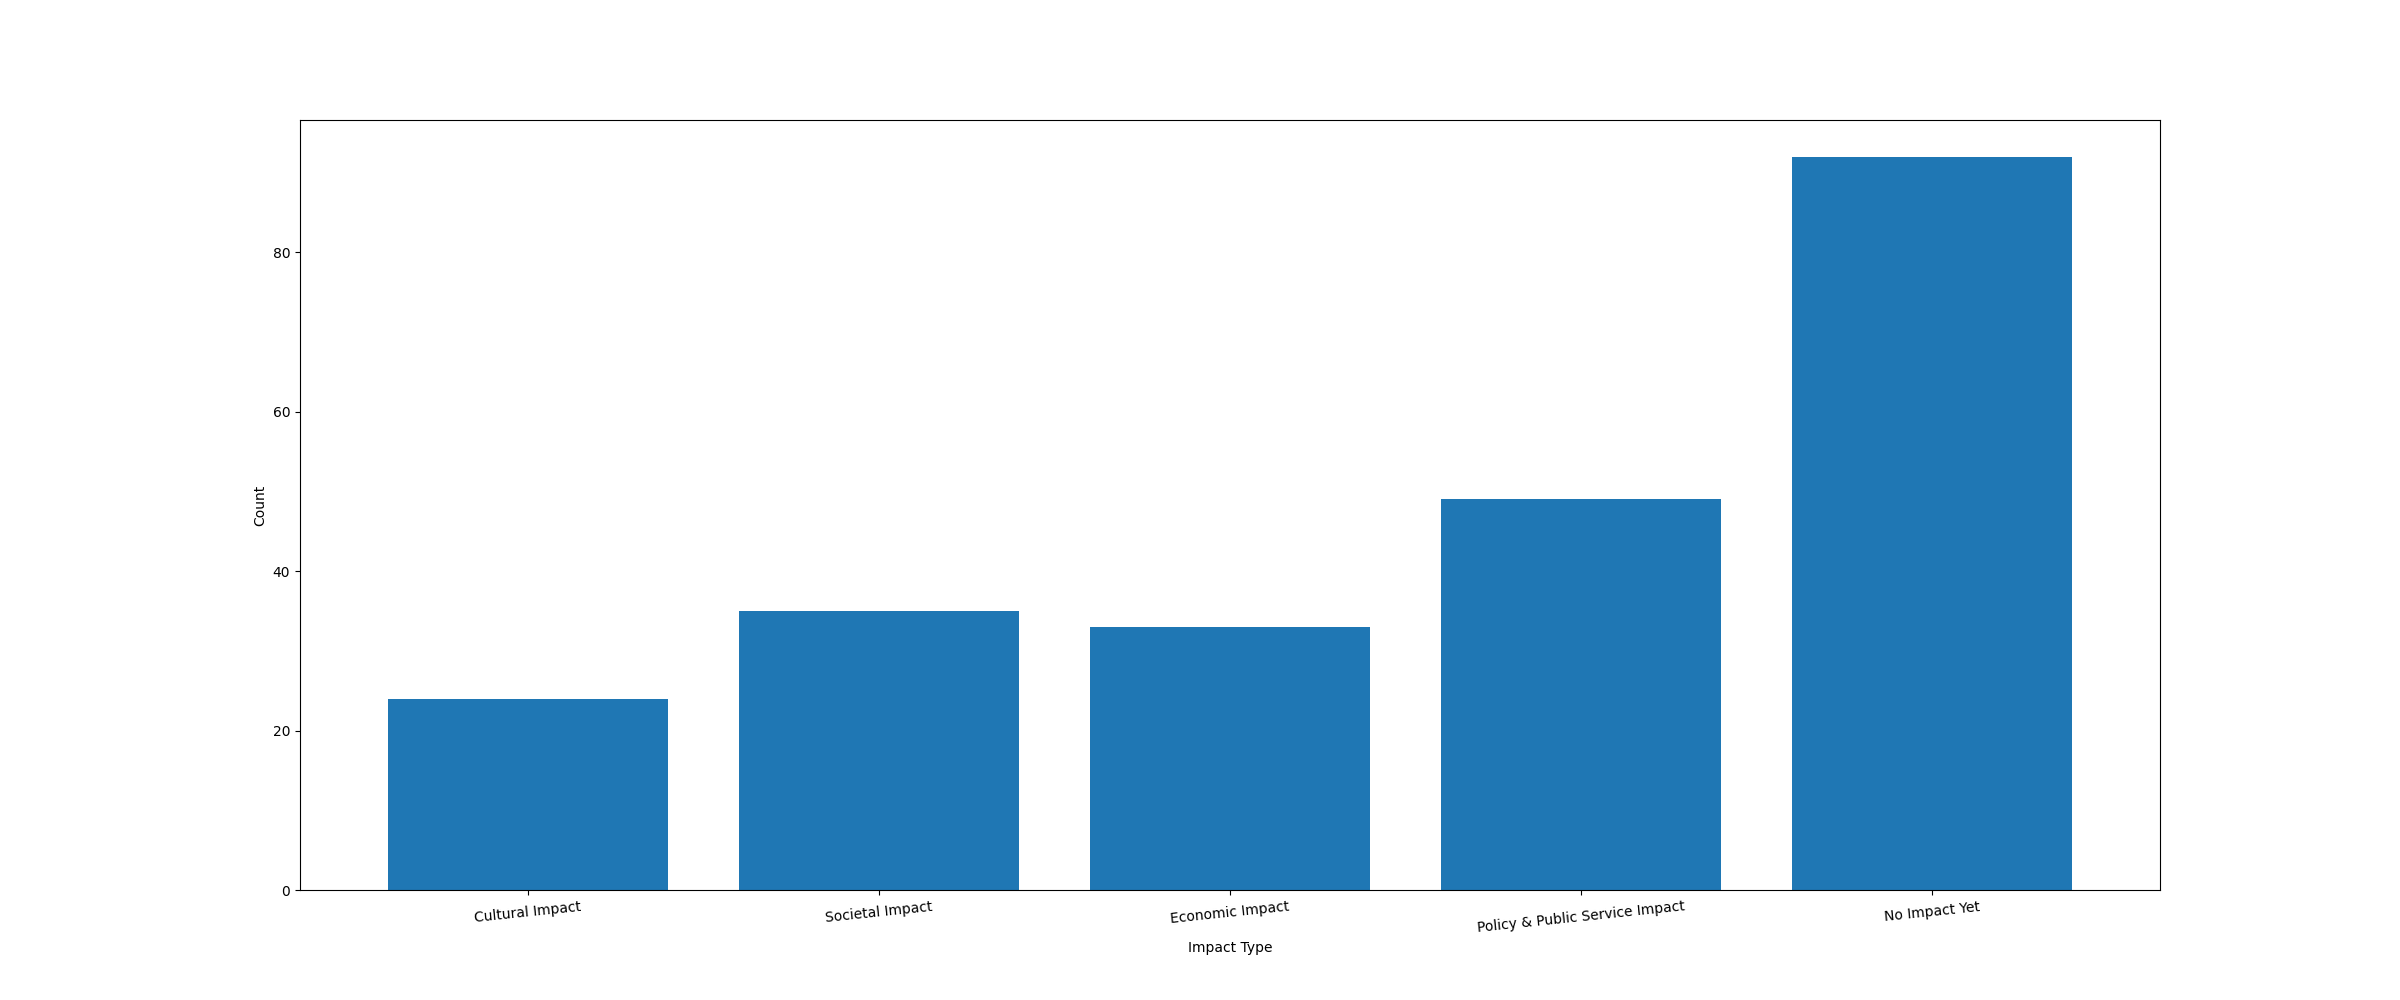
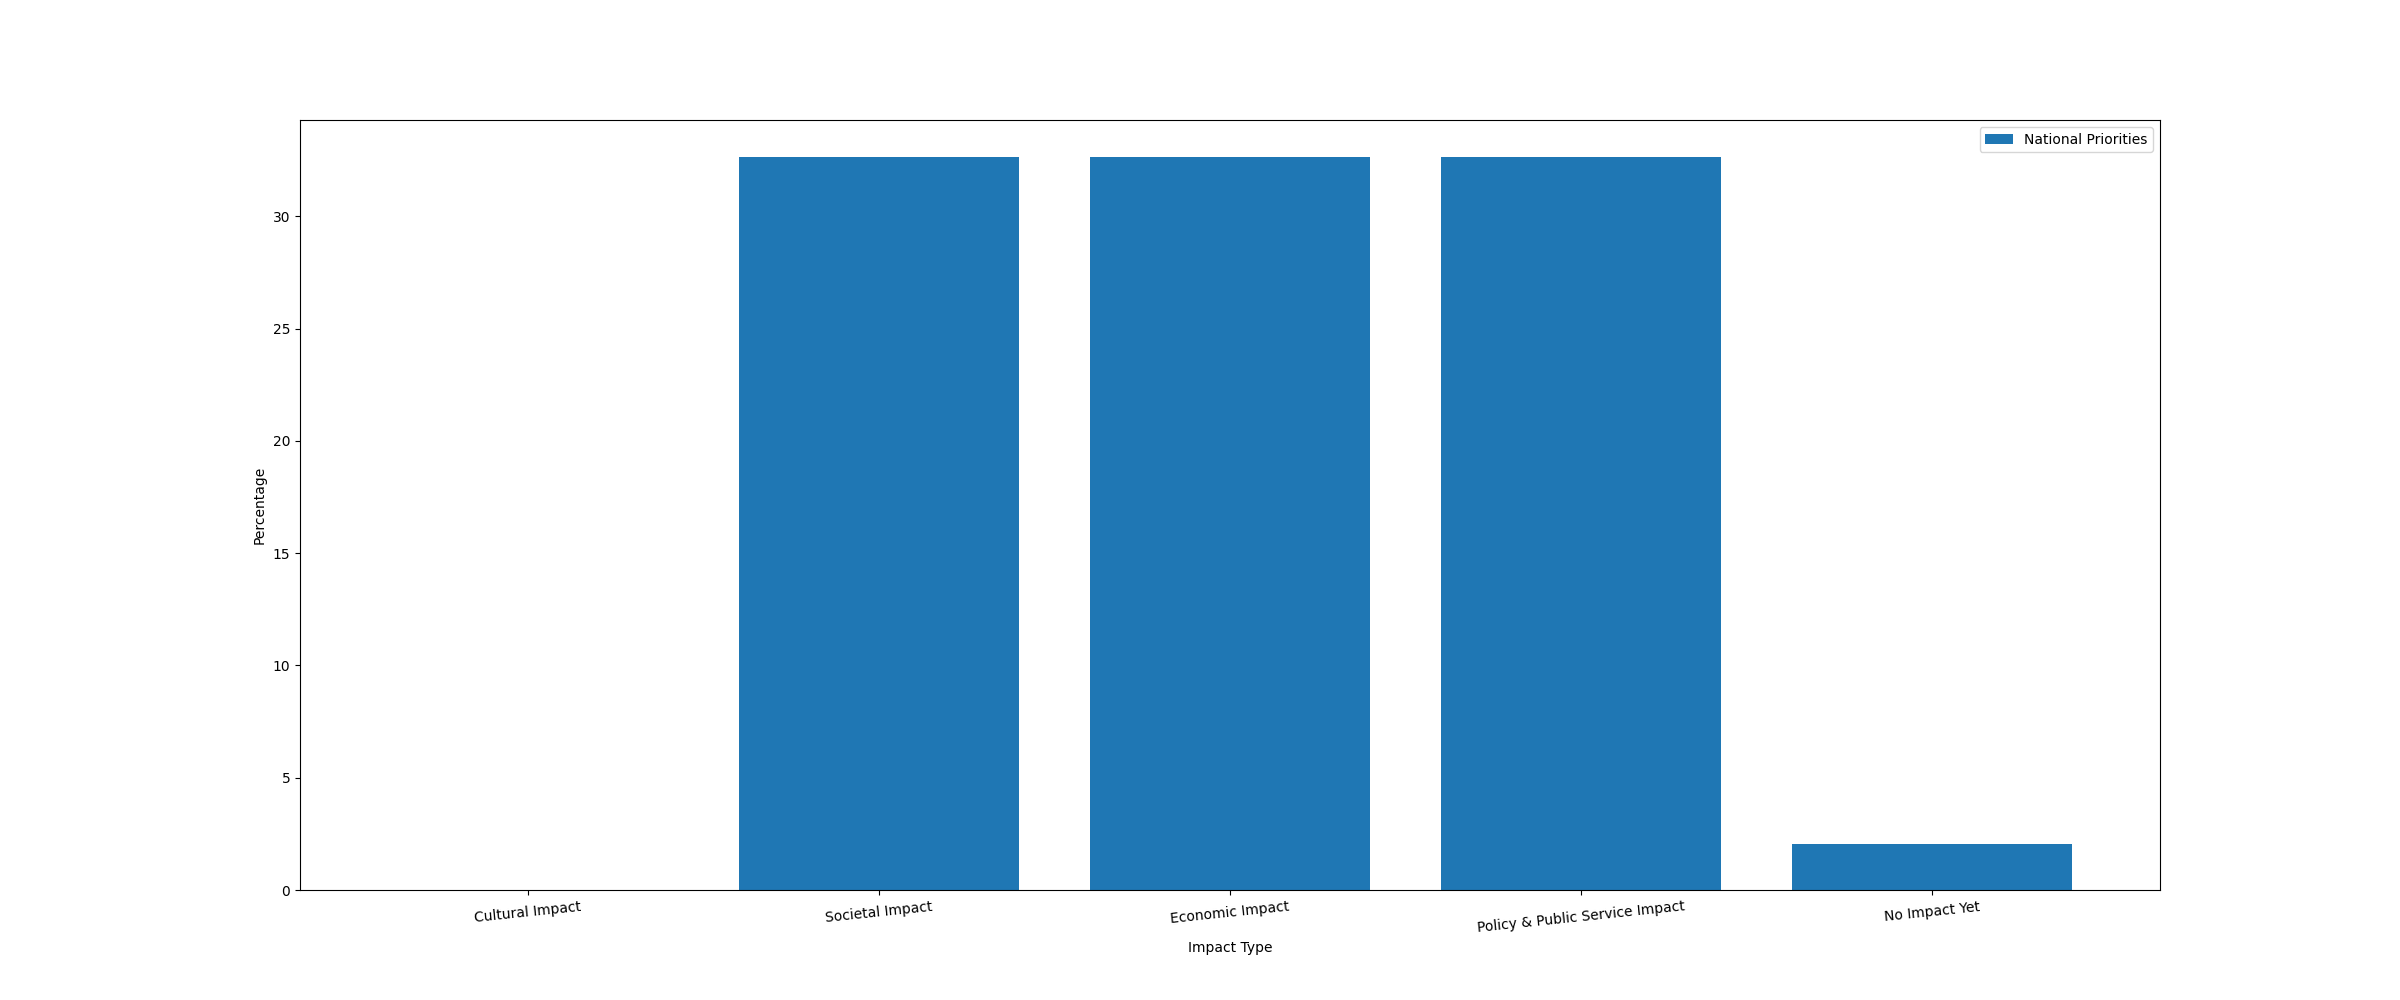
Add percentages for Collaborations Impact

Changed region(s): [[0.2812, 0.124, 0.9062, 0.868], [0.1562, 0.682, 0.2812, 0.899]]

diff --git a/metrics.py b/metrics.py
@@ -56,11 +56,21 @@ def collaborations_impact(workbook, award_refs_dict, filepath1, filepath2):
     aggregated_subgroup_df = aggregated_subgroup_df.T.reset_index()
     aggregated_subgroup_df = aggregated_subgroup_df.rename(columns={'index': 'Group'})
 
+    agg_cols = aggregated_subgroup_df.columns.tolist()
+    agg_cols.pop(0)
+
+    # Change values to percentage
+    aggregated_subgroup_df[agg_cols] = aggregated_subgroup_df[agg_cols].div(aggregated_subgroup_df[agg_cols].sum().sum(), axis=0).multiply(100)
+    
     combined_aggregated_subgroup_df = combined_aggregated_subgroup_df.agg("sum", axis="rows")
+    combined_agg_subgroup_df = combined_aggregated_subgroup_df.to_frame().reset_index()
+    combined_agg_subgroup_df.columns = ['Group', 'National Priorities']
 
-    bar_plot(aggregated_subgroup_df, "Impact Type", "Count", aggregated_subgroup_df['Group'], filepath1)
+    # Change values to percentage
+    combined_agg_subgroup_df[['National Priorities']] = combined_agg_subgroup_df[['National Priorities']].div(combined_agg_subgroup_df[['National Priorities']].sum().sum(), axis=0).multiply(100)
 
-    bar_plot(combined_aggregated_subgroup_df, "Impact Type", "Count", aggregated_subgroup_df['Group'], filepath2)
+    bar_plot(aggregated_subgroup_df, "Impact Type", "Percentage", aggregated_subgroup_df['Group'], filepath1)
+    bar_plot(combined_agg_subgroup_df, "Impact Type", "Percentage", aggregated_subgroup_df['Group'], filepath2)
 
 
 class international_collaborations(object):
